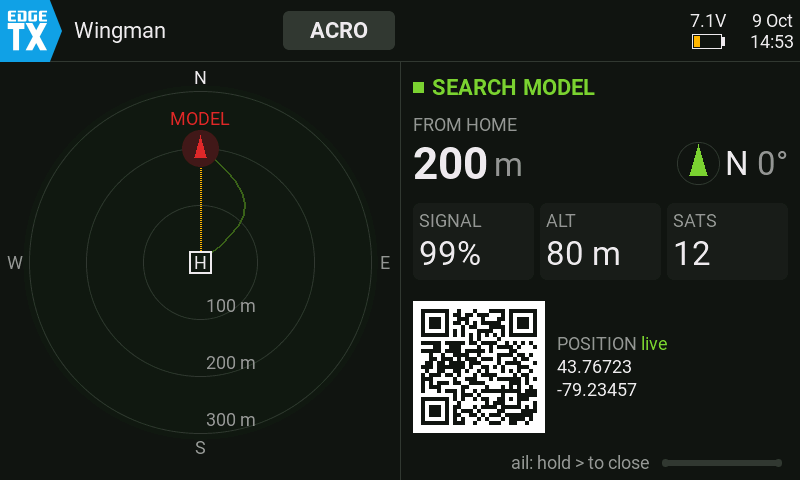
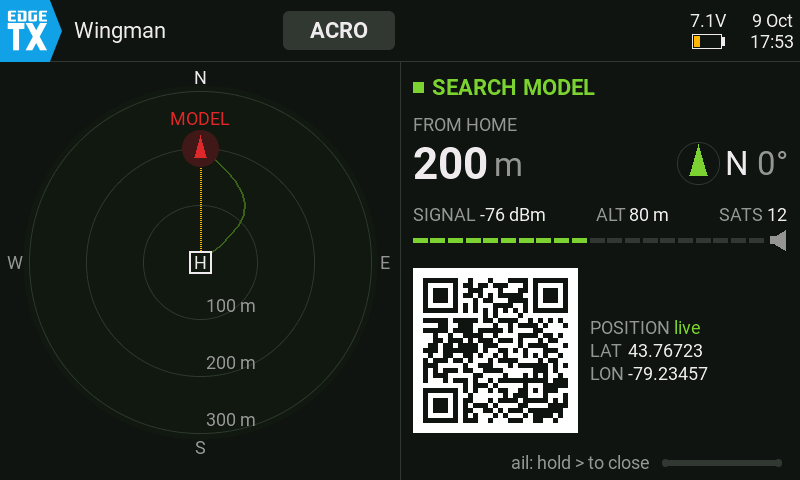
Model finder on the search page: beeps rising in pitch and rate with the smoothed RSS at 25 mW, signal line with finder bar (SIGNAL column on small screens), LAT / LON labels on the search page and in Flight Bag Last flights, synced link core, new screenshot

Changed region(s): [[0.5, 0.4375, 1.0, 0.9062], [0.9375, 0.0625, 0.9688, 0.0938]]

diff --git a/README.md b/README.md
@@ -144,7 +144,7 @@ Open **SYS → Tools → Flight Bag** and set up battery, link and GPS as descri
 
 - Plug in the battery: the preflight page shows battery, GPS and link. Pick the pack if several fit, the same way as in [Lipo Nanny](https://github.com/Mariator-pro/edgetx-lipo-nanny/blob/main/docs/usage.md). Once everything is ready, the field shows `GO` and a bar counts down 15 s to the flight page; arming switches at once.
 - Unplug the battery after the flight: the post-flight page shows flight time, used capacity, distance, each column's extremes and the flight's alerts for 30 s.
-- Landed or crashed far from home (more than 15 m)? The search page shows where the model is, with a QR code for your phone's map app.
+- Landed or crashed far from home (more than 15 m)? The search page shows where the model is, with a QR code for your phone's map app. While the link is still up, the radio beeps like a Geiger counter (higher and faster the stronger the signal), so you can walk towards the model without looking at the screen.
 
 ### Stick controls
 
